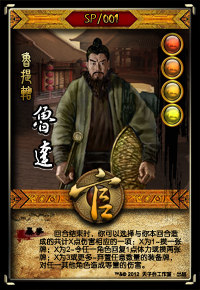
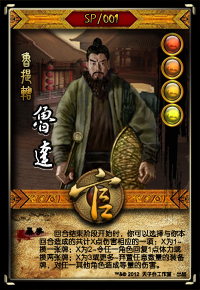
一些优化
暴拳1：你如何对俺讨饶，洒家偏不饶你。/洒家特地要来消遣你！
暴拳2：打死这狗东西，为民除害。/你个杀猪卖肉的屠夫，也敢自称镇关西？
暴拳3：打死你个泼皮腌臜！/你这厮诈死，洒家再打。
阵亡：洒家须吃官司，又没人送饭，不如及早撒开。

Changed region(s): [[0.18, 0.7759, 0.93, 0.931]]

diff --git a/src/package/sp.cpp b/src/package/sp.cpp
@@ -70,9 +70,9 @@ public:
                     }
                     case 2:{
                         PlayerStar target = room->askForPlayerChosen(lusashi, room->getAllPlayers(), objectName());
-                        QString choice = !target->isWounded() ? "draw" :
-                                         room->askForChoice(lusashi, objectName(), "draw+recover");
-                        if(choice == "draw")
+                        QString choice = !target->isWounded() ? "draw2card" :
+                                         room->askForChoice(lusashi, objectName(), "draw2card+recover1hp");
+                        if(choice == "draw2card")
                             target->drawCards(2);
                         else{
                             RecoverStruct rev;
@@ -84,9 +84,12 @@ public:
                     default:
                         room->askForUseCard(lusashi, "@@baoquan", "@baoquan");
                 }
+                room->setPlayerMark(lusashi, "@fist", 0);
             }
         }
         else{
+            if(lusashi->getPhase() == Player::NotActive)
+                return false;
             DamageStruct damage = data.value<DamageStruct>();
             lusashi->gainMark("@fist", damage.damage);
         }

diff --git a/src/core/settings.cpp b/src/core/settings.cpp
@@ -112,7 +112,7 @@ void Settings::init(){
     EnableMinimizeDialog = value("EnableMinimizeDialog", false).toBool();
     EnableAutoTarget = value("EnableAutoTarget", false).toBool();
     NullificationCountDown = value("NullificationCountDown", 8).toInt();
-    ShowAllName = value("ShowAllName", false).toBool();
+    ShowAllName = value("ShowAllName", true).toBool();
     SPOpen = value("SPOpen", false).toBool();
     OperationTimeout = value("OperationTimeout", 15).toInt();
     OperationNoLimit = value("OperationNoLimit", false).toBool();

diff --git a/src/package/standard-generals.cpp b/src/package/standard-generals.cpp
@@ -1813,7 +1813,7 @@ public:
 
         if(damage.to->getGeneral()->isMale()){
             hu3niang->tag["HongjinTarget"] = QVariant::fromValue((PlayerStar)damage.to);
-            QString voly = damage.to->isDead() || damage.to->isNude() ? "draw+cancel" : "draw+throw+cancel";
+            QString voly = damage.to->isDead() || damage.to->isNude() ? "draw1card+cancel" : "draw1card+throw+cancel";
             QString ball = room->askForChoice(hu3niang, objectName(), voly);
             if(ball == "cancel")
                 return false;
